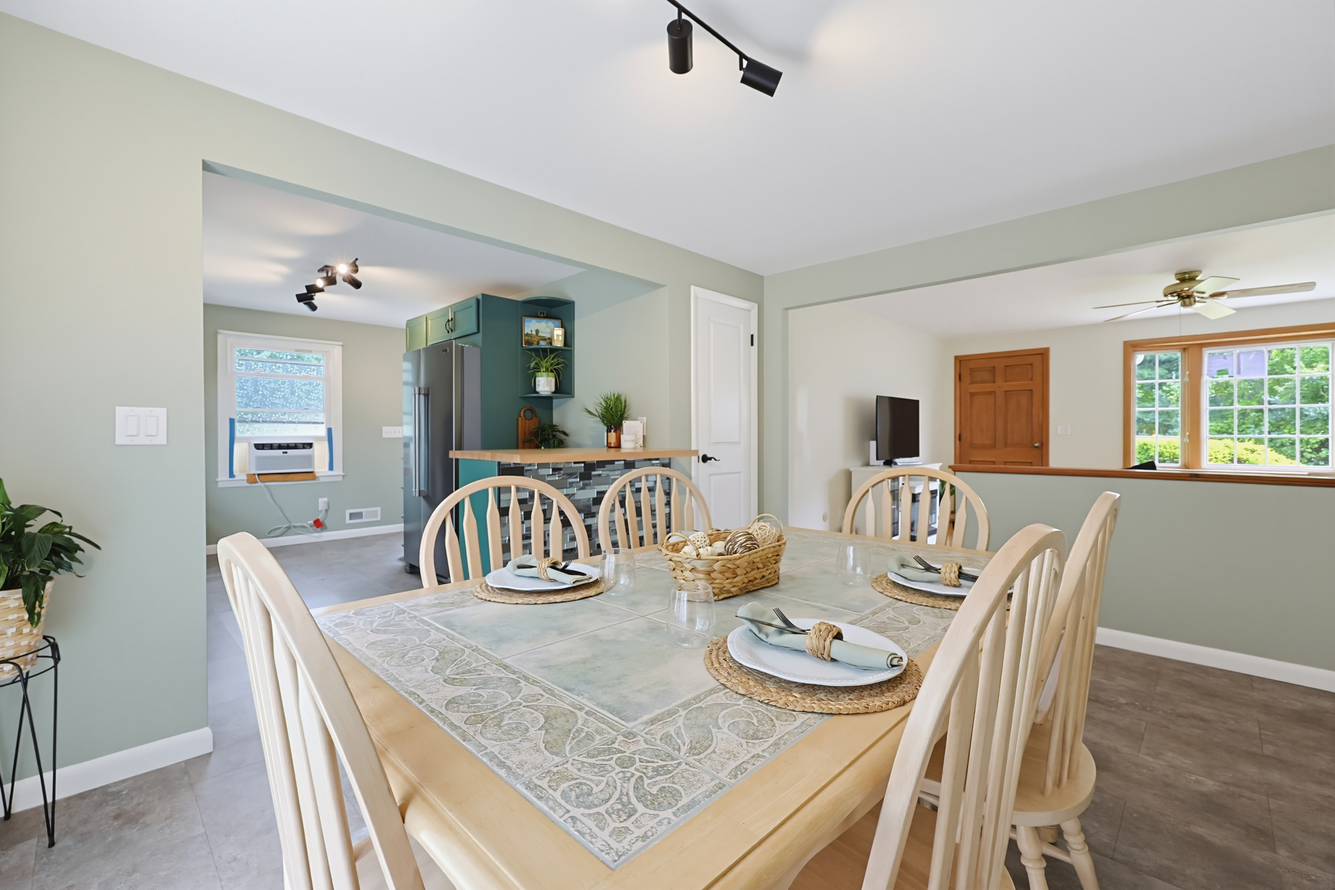
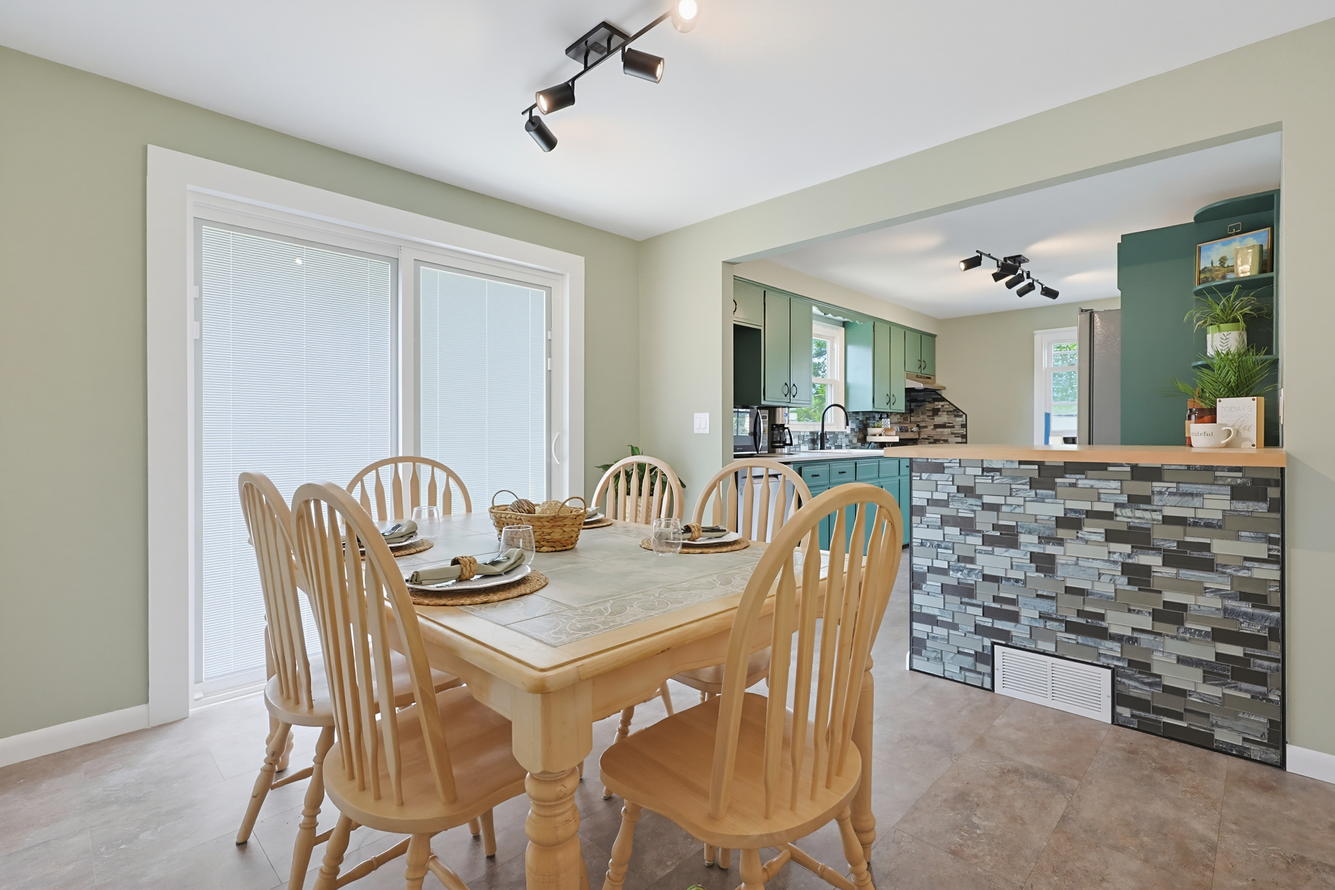
fix: before and after photo swaps, slider labels disappear correction

diff --git a/src/components/prep-to-sell/PrepBeforeAfterSection.tsx b/src/components/prep-to-sell/PrepBeforeAfterSection.tsx
@@ -1,10 +1,10 @@
 import BeforeAfterSlider from "../BeforeAfterSlider";
 
-import kitchenBefore from "../../assets/Before-Kitchen.jpg";
-import kitchenAfter from "../../assets/After-Kitchen.jpg";
-
 import livingBefore from "../../assets/Before-Living.jpg";
 import livingAfter from "../../assets/After-Living.jpg";
+
+import bedroomBefore from "../../assets/Before-Bedroom.jpg";
+import bedroomAfter from "../../assets/After-Bedroom.jpg";
 
 import basementBefore from "../../assets/Before-Basement.jpg";
 import basementAfter from "../../assets/After-Basement.jpg";
@@ -22,33 +22,10 @@ export default function PrepBeforeAfterSection() {
           </p>
         </div>
 
-        {/* Kitchen */}
+        {/* Bedrooms */}
         <div className="prep-before-after-comparison prep-before-after-feature">
           <div className="prep-before-after-heading">
             <span>01</span>
-
-            <div>
-              <h3>See what's already there.</h3>
-
-              <p>
-                Sometimes the right preparation matters more than a renovation.
-              </p>
-            </div>
-          </div>
-
-          <BeforeAfterSlider
-            before={kitchenBefore}
-            after={kitchenAfter}
-            beforeAlt="Kitchen before market preparation"
-            afterAlt="Kitchen prepared and professionally photographed for market"
-            ariaLabel="Compare the kitchen before and after market preparation"
-          />
-        </div>
-
-        {/* Living + Dining */}
-        <div className="prep-before-after-comparison">
-          <div className="prep-before-after-heading">
-            <span>02</span>
 
             <div>
               <h3>Help buyers picture home.</h3>
@@ -61,11 +38,36 @@ export default function PrepBeforeAfterSection() {
           </div>
 
           <BeforeAfterSlider
+            before={bedroomBefore}
+            after={bedroomAfter}
+            beforeAlt="Bedroom before market preparation"
+            afterAlt="Bedroom prepared and professionally photographed for market"
+            ariaLabel="Compare bedroom before and after market preparation"
+          />
+        </div>
+
+        {/* Living + Dining */}
+        <div className="prep-before-after-comparison">
+          <div className="prep-before-after-heading">
+            <span>02</span>
+
+            <div>
+              <h3>See what's already there.</h3>
+
+              <p>
+                Sometimes the right preparation matters more than a renovation.
+              </p>
+            </div>
+          </div>
+
+          <BeforeAfterSlider
             before={livingBefore}
             after={livingAfter}
             beforeAlt="Living and dining area before market preparation"
             afterAlt="Living and dining area prepared and professionally photographed for market"
             ariaLabel="Compare the living and dining area before and after market preparation"
+            beforePosition="center 20%"
+            afterPosition="center 90%"
           />
         </div>
 
@@ -87,7 +89,7 @@ export default function PrepBeforeAfterSection() {
             beforeAlt="Basement before market preparation"
             afterAlt="Basement prepared and professionally photographed for market"
             ariaLabel="Compare the basement before and after market preparation"
-            beforePosition="center 30%"
+            beforePosition="center 38%"
             afterPosition="center"
           />
         </div>

diff --git a/src/styles/prep-to-sell.css b/src/styles/prep-to-sell.css
@@ -4,7 +4,7 @@
 
 /* ========= HERO ========= */
 .prep-hero-section {
-  padding: 7rem 0 0;
+  padding: 7rem 0;
 
   background: var(--color-background);
 }
@@ -118,8 +118,9 @@
 
 /* ========= PHILOSOPHY ========= */
 .prep-philo-section {
-  padding: 7rem 0;
-  background: var(--color-background);
+  padding: 4rem 0;
+  background: var(--color-section-red);
+  color: var(--color-background);
 }
 
 .prep-philo-container {
@@ -140,7 +141,7 @@
   line-height: 1.02;
   letter-spacing: -0.02em;
 
-  color: var(--color-text);
+  color: var(--color-background);
 }
 
 .prep-philo-intro p {
@@ -150,15 +151,15 @@
   font-size: 1.05rem;
   line-height: 1.75;
 
-  color: var(--color-text-soft);
+  color: rgba(248, 246, 241, 0.8);
 }
 
 .prep-philo-grid {
   display: grid;
   grid-template-columns: repeat(3, 1fr);
 
-  border-top: 1px solid var(--color-border);
-  border-bottom: 1px solid var(--color-border);
+  border-top: 1px solid rgba(248, 246, 241, 0.25);
+  border-bottom: 1px solid rgba(248, 246, 241, 0.25);
 }
 
 .prep-philo-item {
@@ -178,7 +179,7 @@
 }
 
 .prep-philo-item + .prep-philo-item {
-  border-left: 1px solid var(--color-border);
+  border-left: 1px solid rgba(248, 246, 241, 0.25);
 }
 
 .prep-philo-number {
@@ -190,7 +191,7 @@
   font-weight: 400;
   line-height: 0.9;
 
-  color: rgba(128, 0, 0, 0.2);
+  color: rgba(248, 246, 241, 0.12);
 }
 
 .prep-philo-item h3 {
@@ -202,7 +203,7 @@
   letter-spacing: 0.11em;
   text-transform: uppercase;
 
-  color: var(--color-accent);
+  color: var(--color-background);
 }
 
 .prep-philo-item p {
@@ -213,12 +214,12 @@
   font-size: 1rem;
   line-height: 1.7;
 
-  color: var(--color-text-soft);
+  color: rgba(248, 246, 241, 0.76);
 }
 
 /* ========= BEFORE / AFTER ========= */
 .prep-before-after-section {
-  padding: 8rem 0;
+  padding: 6rem 0;
   background: var(--color-background);
 }
 
@@ -227,8 +228,8 @@
 }
 
 .prep-before-after-intro {
-  max-width: 920px;
-  margin-bottom: 6rem;
+  max-width: 1240px;
+  margin-bottom: 4rem;
 }
 
 .prep-before-after-intro h2 {
@@ -244,8 +245,8 @@
 }
 
 .prep-before-after-intro p {
-  max-width: 720px;
-  margin: 2rem 0 0;
+  max-width: 1240px;
+  margin: 1.25rem 0 0;
 
   font-family: var(--font-body);
   font-size: 1.15rem;
@@ -255,8 +256,8 @@
 }
 
 .prep-before-after-comparison {
-  padding-top: 6rem;
-  margin-top: 6rem;
+  padding-top: 2rem;
+  margin-top: 2rem;
 
   border-top: 1px solid var(--color-border);
 }

diff --git a/src/components/BeforeAfterSlider.tsx b/src/components/BeforeAfterSlider.tsx
@@ -178,13 +178,21 @@ export default function BeforeAfterSlider({
       </div>
 
       {/* Labels */}
-      <span className="before-after-label before-after-before-label">
+      <div
+        className={`before-after-label before-after-before-label ${
+          position < 22 ? "before-after-label--hidden" : ""
+        }`}
+      >
         Before
-      </span>
+      </div>
 
-      <span className="before-after-label before-after-after-label">
+      <div
+        className={`before-after-label before-after-after-label ${
+          position > 76 ? "before-after-label--hidden" : ""
+        }`}
+      >
         Prepared for Market
-      </span>
+      </div>
     </div>
   );
 }

diff --git a/src/styles/index.css b/src/styles/index.css
@@ -654,6 +654,10 @@ section {
   text-transform: uppercase;
 
   pointer-events: none;
+
+  transition:
+    opacity 0.2s ease,
+    transform 0.2s ease;
 }
 
 .before-after-before-label {
@@ -662,6 +666,19 @@ section {
 
 .before-after-after-label {
   right: 26px;
+}
+
+.before-after-label--hidden {
+  opacity: 0;
+  pointer-events: none;
+}
+
+.before-after-before-label.before-after-label--hidden {
+  transform: translateX(-8px);
+}
+
+.before-after-after-label.before-after-label--hidden {
+  transform: translateX(8px);
 }
 
 /* Slider Hint Animation */
